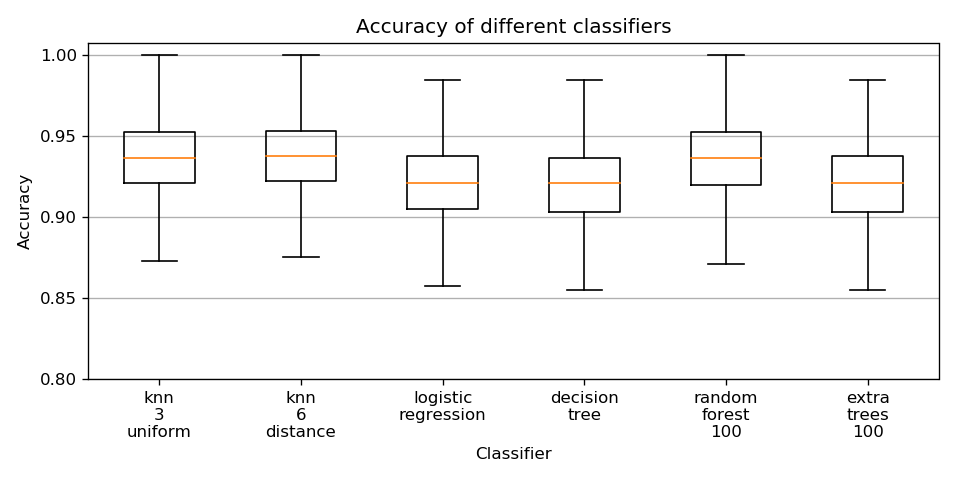
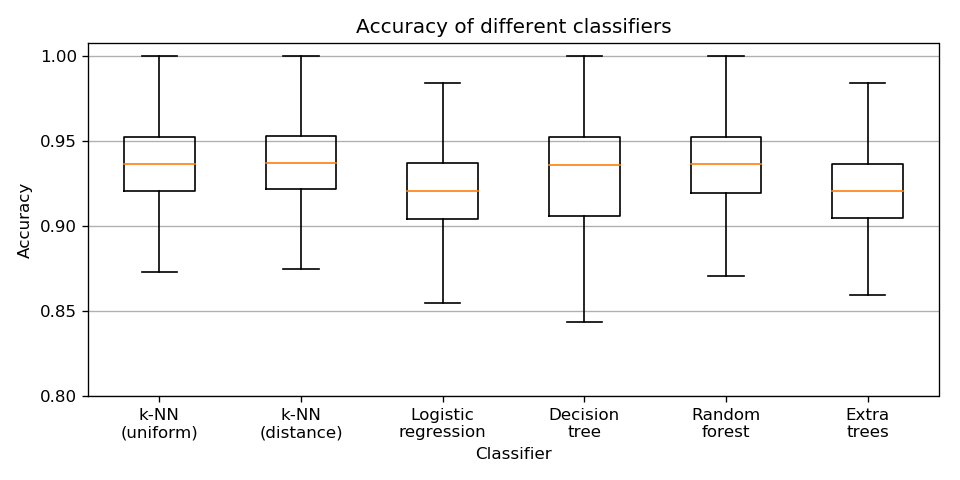
Evaluation of classifiers

diff --git a/projekt-01-kapitoly-chapters.tex b/projekt-01-kapitoly-chapters.tex
@@ -1270,18 +1270,56 @@ number of the trees in the model.
 \end{figure}
 
 \section{Evaluation of classifiers}
-What is cross validation
-Best classifiers seems to be knn and random forest.
-This classifier will be added to analyzer for automatic labeling of comparisons.
+For the evaluation and comparison of proposed classifiers we will use these
+configurations:
+\begin{itemize}
+\item \textbf{k-nearest neighbors} with $k=3$ and uniform vote weight.
+\item \textbf{k-nearest neighbors} with $k=6$ and vote weight based on distance.
+\item \textbf{Linear regression} with balanced weight of the classes.
+\item \textbf{Decision tree} with minimum of 16 samples in each leaf node.
+\item \textbf{Random forest} with 100 trees.
+\item \textbf{Extra trees} with 100 trees.
+\end{itemize}
+
+Precision of the classifiers will be evaluated using k-fold cross-validation
+described in Subsection \ref{subsec:validation}.
+
+Results of the classifiers evaluation are visualized in Figure
+\ref{fig:classifiers}. Exact median values of classification precision on
+testing datasets with deviation of measurement are listed below:
+
+\begin{minipage}{\linewidth}
+\begin{verbatim}
+k-NN (uniform):
+  accuracy: 93.63% (+/- 4.96%)
+k-NN (distance):
+  accuracy: 94.29% (+/- 4.66%)
+Logistic regression:
+  accuracy: 92.05% (+/- 5.72%)
+Decision tree:
+  accuracy: 92.97% (+/- 5.82%)
+Random forest:
+  accuracy: 93.13% (+/- 5.66%)
+Extra trees:
+  accuracy: 91.85% (+/- 5.59%)
+\end{verbatim}
+\end{minipage}\\
 
 \begin{figure}
   \centering
   \includegraphics[width=14cm]{classifiers}
   \caption{Comparison of accuracy of different classifiers mentioned in Section
-    \ref{sec:classifier_comparison}. The results come from cross-validation by
-    split the dataset to train and test sets using ratio 3:1.}
+    \ref{sec:classifier_comparison}. The results come from repeated k-fold
+    cross-validation by splitting the dataset to train and test sets using ratio
+    3:1.}
   \label{fig:classifiers}
 \end{figure}
+
+As the best classifiers seems to be \emph{k-nearest neighbors} classifiers and
+\emph{random forest} classifiers. Now any of these classifiers is fine to use
+for the automatic detection of performance regression, but with more manually
+labeled data will be the evaluation repeated and the selection of classifier
+reconsidered.
 
 
 
